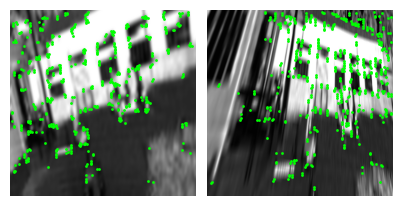
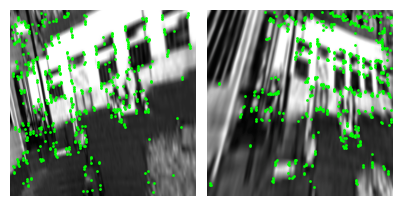
adding custom inference script and increase training epochs to 100

diff --git a/visualize_custom.py b/visualize_custom.py
@@ -1,0 +1,147 @@
+import os
+import argparse
+import logging
+from pathlib import Path
+import cv2
+import numpy as np
+import torch
+import matplotlib.pyplot as plt
+from tqdm import tqdm
+
+from gluefactory.models import get_model
+from gluefactory.settings import DATA_PATH
+
+logging.basicConfig(level=logging.INFO)
+logger = logging.getLogger("visualize_custom")
+
+def main():
+    # Define directories
+    checkpoint_path = Path("outputs/training/superpoint_custom_run/checkpoint_best.tar")
+    images_dir = Path("data/custom_dataset/images/reflectivity")
+    output_dir = Path("data/custom_dataset/visualizations_trained")
+    output_dir.mkdir(parents=True, exist_ok=True)
+    
+    if not checkpoint_path.exists():
+        logger.error(f"Checkpoint not found at {checkpoint_path}!")
+        return
+        
+    if not images_dir.exists():
+        logger.error(f"Images directory not found at {images_dir}!")
+        return
+
+    # Find all images
+    image_paths = sorted(list(images_dir.glob("*.png")) + list(images_dir.glob("*.jpg")))
+    if not image_paths:
+        logger.error(f"No images found in {images_dir}")
+        return
+        
+    logger.info(f"Found {len(image_paths)} images to test on.")
+
+    # 1. Load Trained SuperPoint Model
+    device = "cuda" if torch.cuda.is_available() else "cpu"
+    logger.info(f"Using device: {device}")
+    
+    # Configure SuperPoint open model
+    model_conf = {
+        "name": "superpoint_open",
+        "nms_radius": 3,
+        "max_num_keypoints": 512,
+        "detection_threshold": 0.005,
+        "remove_borders": 4,
+        "trainable": False
+    }
+    
+    model = get_model("superpoint_open")(model_conf).to(device)
+    
+    # Load state dict and strip 'extractor.' prefix from weights
+    logger.info(f"Loading trained weights from {checkpoint_path}...")
+    checkpoint = torch.load(checkpoint_path, map_location=device)
+    state_dict = checkpoint["model"]
+    
+    # Strip the prefix 'extractor.' from model state dict
+    extractor_state_dict = {}
+    for k, v in state_dict.items():
+        if k.startswith("extractor."):
+            extractor_state_dict[k.replace("extractor.", "")] = v
+        else:
+            extractor_state_dict[k] = v
+            
+    model.load_state_dict(extractor_state_dict)
+    model.eval()
+    logger.info("Model loaded successfully!")
+
+    # For collage plotting
+    collage_imgs = []
+    collage_titles = []
+    
+    # 2. Run inference and plot
+    for idx, img_path in enumerate(tqdm(image_paths, desc="Inference")):
+        # Read image
+        img_gray = cv2.imread(str(img_path), cv2.IMREAD_GRAYSCALE)
+        if img_gray is None:
+            logger.warning(f"Could not read image {img_path}")
+            continue
+            
+        h, w = img_gray.shape[:2]
+        
+        # Prepare input tensor
+        img_tensor = torch.from_numpy(img_gray).float().unsqueeze(0).unsqueeze(0).to(device) / 255.0
+        
+        with torch.no_grad():
+            pred = model({"image": img_tensor})
+            # Substract 0.5 coordinate offset (pixel center convention)
+            kpts = pred["keypoints"][0].cpu().numpy() - 0.5
+            scores = pred["keypoint_scores"][0].cpu().numpy()
+            
+        logger.info(f"Image {img_path.name}: Extracted {len(kpts)} keypoints.")
+        
+        # Plotting the result
+        fig, ax = plt.subplots(figsize=(10, 10), dpi=120)
+        fig.patch.set_facecolor("#0b0c10")
+        ax.set_facecolor("#0b0c10")
+        ax.axis("off")
+        
+        ax.imshow(img_gray, cmap="gray")
+        if len(kpts) > 0:
+            ax.scatter(kpts[:, 0], kpts[:, 1], c=scores, cmap="plasma", s=15, edgecolors="none", alpha=0.9)
+            
+        ax.set_title(f"Trained SuperPoint Detections ({len(kpts)} kpts)\nImage: {img_path.name}", color="#66fcf1", fontsize=14, pad=12)
+        
+        # Save individual result
+        out_filename = output_dir / f"{img_path.stem}_detections.png"
+        plt.savefig(out_filename, bbox_inches="tight", facecolor=fig.get_facecolor(), edgecolor="none")
+        plt.close()
+        
+        # Add to collage list for the first 6 images
+        if len(collage_imgs) < 6:
+            # Create RGB overlay for collage
+            overlay = cv2.cvtColor(img_gray, cv2.COLOR_GRAY2RGB)
+            for kp in kpts[:150]: # Show top 150 keypoints for clear visibility
+                x, y = int(round(kp[0])), int(round(kp[1]))
+                cv2.circle(overlay, (x, y), 3, (0, 255, 0), -1) # Green dots
+            collage_imgs.append(overlay)
+            collage_titles.append(f"{img_path.name} ({len(kpts)} kpts)")
+
+    # 3. Create a beautiful grid collage
+    if collage_imgs:
+        logger.info("Creating summary collage...")
+        fig, axes = plt.subplots(2, 3, figsize=(18, 12), dpi=150)
+        fig.patch.set_facecolor("#0b0c10")
+        axes = axes.flatten()
+        
+        for ax, img, title in zip(axes, collage_imgs, collage_titles):
+            ax.imshow(img)
+            ax.set_title(title, color="#66fcf1", fontsize=12, pad=8)
+            ax.axis("off")
+            
+        fig.suptitle("Trained SuperPoint Custom Detections Collage (Top 150 Keypoints shown in Green)", color="#fc4445", fontsize=18, weight="bold", y=0.96)
+        
+        collage_out = output_dir / "collage.png"
+        plt.savefig(collage_out, bbox_inches="tight", facecolor=fig.get_facecolor(), edgecolor="none")
+        plt.close()
+        logger.info(f"Collage saved to {collage_out}")
+        
+    logger.info(f"All processing complete! Keypoint images saved in: {output_dir}")
+
+if __name__ == "__main__":
+    main()
